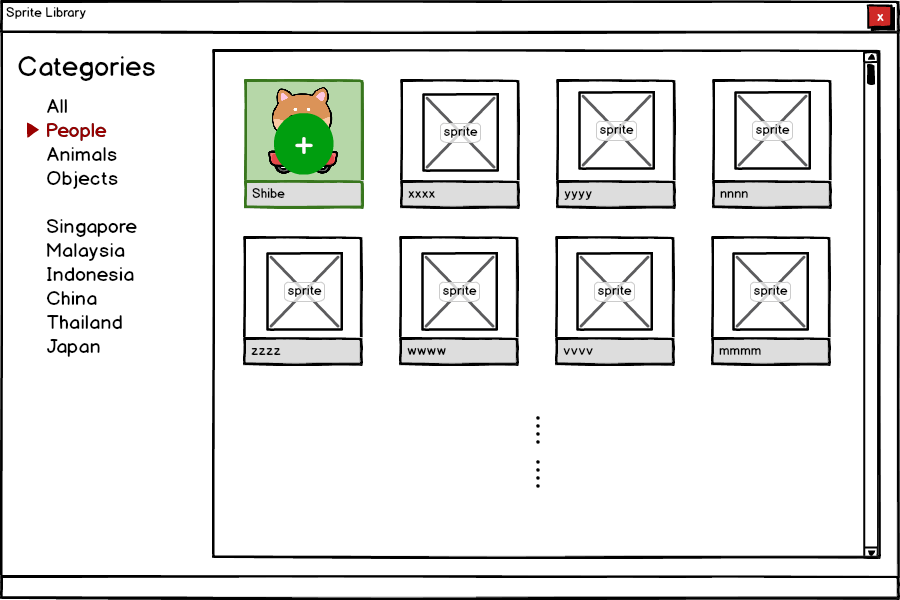
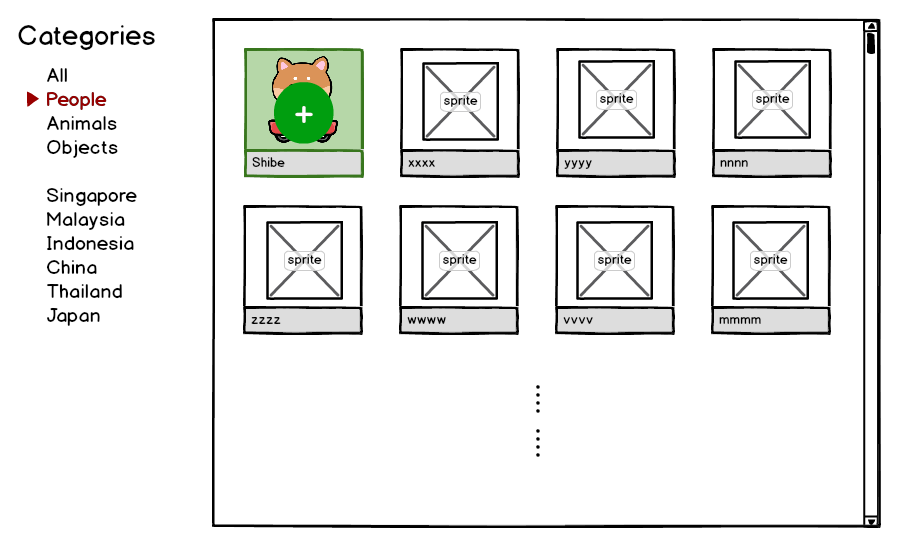
Testing experimental obejct... works, but not well enough.
Conflicts:
	gui.js

Changed region(s): [[0.0, 0.0, 1.0, 1.0], [0.5911, 0.7109, 0.6222, 0.7418]]

diff --git a/misc.js b/misc.js
@@ -1,0 +1,55 @@
+/**
+ * Created by Undisputed_Seraphim on 11/13/2014.
+ *
+ * This file contains assorted odds and ends.
+ * EXPERIMENTAL CLASSES GO HERE!!
+ */
+
+// ImageMorph //////////////////////////////////////////////////////
+
+var ImageMorph;
+
+// I represent the abstract concept of an image, boxed into a Morphic object.
+// Images must have a static, fixed size. No support for gifs at the moment.
+// Path of the image must also be static and relative.
+// Mutability of the image is not a priority and might possibly never be implemented.
+
+// ImageMorph inherits from Morph
+
+ImageMorph.prototype = new Morph();
+ImageMorph.prototype.constructor = ImageMorph;
+ImageMorph.uber = Morph.prototype;
+
+function ImageMorph(
+	path,
+	width,
+	height) {
+	this.init(
+		path || null,
+		width,
+		height
+	);
+}
+
+ImageMorph.prototype.init = function (
+	path,
+	width,
+	height) {
+	// Initialize inherited properties
+	ImageMorph.uber.init.call(this);
+	// Override inherited properties
+	this.autoOrient = false;
+
+	var dim = newCanvas(new Point(
+		width, height
+	));
+
+	var context = dim.getContext('2d');
+	var img = new Image();
+	img.src = path;
+	img.onload = function() {
+		// Create a pattern with this image, set it to repeat
+		context.fillStyle = context.createPattern(img, 'repeat');
+		context.fillRect(0, 0, width, height);
+	};
+};

diff --git a/gui.js b/gui.js
@@ -2657,9 +2657,12 @@ IDE_Morph.prototype.paintNewSprite = function () {
 
 IDE_Morph.prototype.openLibrary = function(){
     var db = new DialogBoxMorph();
-	var pic = newCanvas(new Point(
+    var pic = new ImageMorph('library_mockup.png', 900, 550);
+
+/*
+    var pic = newCanvas(new Point(
 		//434, 294
-		900, 600
+		900, 550
 	));
 
 	var ctx = pic.getContext('2d');
@@ -2671,7 +2674,9 @@ IDE_Morph.prototype.openLibrary = function(){
 		ctx.fillStyle = ptrn;
 		ctx.fillRect(0, 0, pic.width, pic.height); // context.fillRect(x, y, width, height);
 	};
+*/
 
+/*
     var nextstep = new PushButtonMorph(
         this,
         'nextstep',
@@ -2690,10 +2695,11 @@ IDE_Morph.prototype.openLibrary = function(){
     nextstep.drawNew();
     nextstep.hint = "Next";
     db.add(nextstep);
+*/
 
     db.inform(
-        'Import Resource',
-        'I have a gigantic unicorn',
+        'Sprite Library',
+        'Some placeholder text',
         this.world(),
         pic
     );

diff --git a/snap.html b/snap.html
@@ -5,6 +5,7 @@
 		<title>Snap! Build Your Own Blocks. Beta</title>
         <link rel="shortcut icon" href="http://snap.berkeley.edu/fav3.gif" type="image/gif">
 		<script type="text/javascript" src="morphic.js"></script>
+		<script type="text/javascript" src="misc.js"></script>
 		<script type="text/javascript" src="widgets.js"></script>
 		<script type="text/javascript" src="blocks.js"></script>
 		<script type="text/javascript" src="threads.js"></script>

diff --git a/widgets.js b/widgets.js
@@ -153,7 +153,7 @@ PushButtonMorph.prototype.init = function (
     this.label = null;
     this.labelMinExtent = new Point(0, 0);
     this.hint = hint || null;
-    this.template = template || null; // for pre-computed backbrounds
+    this.template = template || null; // for pre-computed backgrounds
     // if a template is specified, its background images are used as cache
 
     // initialize inherited properties:
